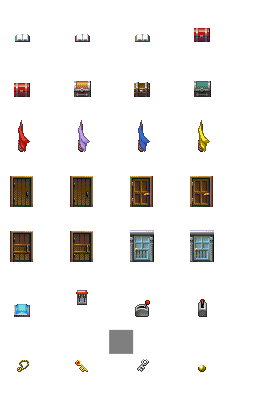
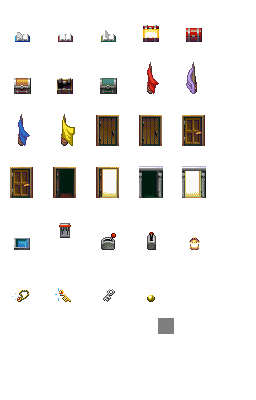
03:object

diff --git a/prj/lib/ObjectEntity.ts b/prj/lib/ObjectEntity.ts
@@ -48,8 +48,8 @@ const object_type_settings:objectTypeSetting[] = [
         type: "door", asset_path: "/assets/image/obj/doors.png",
         collision_x: 0, collision_y: 0, collision_w: 23, collision_h: 31,
         animation_patterns: [
-            { name: "open", frames: [18, 12, 6, 0], loop: false, interval: object_interval_fast },
-            { name: "close", frames: [0, 6, 12, 18], loop: false, interval: object_interval_fast, default: true },
+            { name: "open", frames: [12, 8, 4, 0], loop: false, interval: object_interval_fast },
+            { name: "close", frames: [0, 4, 8, 12], loop: false, interval: object_interval_fast, default: true },
         ],
     }, {
         type: "switch", asset_path: "/assets/image/obj/switches.png",
@@ -92,17 +92,18 @@ const object_settings:object_setting[] = [
     { type: "flag", name: "flag_blue",    animation_offset: 6 },
     { type: "flag", name: "flag_yellow",  animation_offset: 9 },
     { type: "door", name: "door_wood1", animation_offset: 0 },
-    { type: "door", name: "door_wood1_bright", animation_offset: 24 },
+    { type: "door", name: "door_wood1_bright", animation_offset: 16 },
     { type: "door", name: "door_wood2", animation_offset: 1 },
-    { type: "door", name: "door_wood2_bright", animation_offset: 25 },
+    { type: "door", name: "door_wood2_bright", animation_offset: 17 },
     { type: "door", name: "door_wood3", animation_offset: 2 },
-    { type: "door", name: "door_wood3_bright", animation_offset: 26 },
+    { type: "door", name: "door_wood3_bright", animation_offset: 18 },
     { type: "door", name: "door_iron",  animation_offset: 3 },
-    { type: "door", name: "door_iron_bright", animation_offset: 27 },
-    { type: "switch",   name: "switch_p",  animation_offset: 0, collision_x: 4, collision_y: 20, collision_w: 16, collision_h: 11 },
-    { type: "switch",   name: "switch_ud", animation_offset: 3, collision_x: 6, collision_y: 4,  collision_w: 12, collision_h: 17 },
-    { type: "switch",   name: "switch_lr", animation_offset: 6, collision_x: 5, collision_y: 17, collision_w: 14, collision_h: 14 },
-    { type: "switch",   name: "switch_fb", animation_offset: 9, collision_x: 8, collision_y: 15, collision_w: 9, collision_h: 16 },
+    { type: "door", name: "door_iron_bright", animation_offset: 19 },
+    { type: "switch",   name: "switch_p",  animation_offset:  0, collision_x: 4, collision_y: 20, collision_w: 16, collision_h: 11 },
+    { type: "switch",   name: "switch_ud", animation_offset:  3, collision_x: 6, collision_y: 4,  collision_w: 12, collision_h: 17 },
+    { type: "switch",   name: "switch_lr", animation_offset:  6, collision_x: 5, collision_y: 17, collision_w: 14, collision_h: 14 },
+    { type: "switch",   name: "switch_fb", animation_offset:  9, collision_x: 8, collision_y: 15, collision_w: 9, collision_h: 16 },
+    { type: "switch",   name: "lamp",      animation_offset: 12, collision_x: 8, collision_y: 19, collision_w: 9, collision_h: 12 },
     { type: "treasure", name: "treasure_pendant",    animation_offset: 0, collision_x: 7, collision_y: 20,  collision_w: 12, collision_h: 11 },
     { type: "treasure", name: "treasure_key_heart",  animation_offset: 3, collision_x: 6, collision_y: 20,  collision_w: 12, collision_h: 11 },
     { type: "treasure", name: "treasure_key_silver", animation_offset: 6, collision_x: 7, collision_y: 19,  collision_w: 11, collision_h: 12 },

diff --git a/prj/03.lib_object_object/src/main.ts b/prj/03.lib_object_object/src/main.ts
@@ -13,13 +13,13 @@ function main(param: g.GameMainParameterObject): void {
             "chest_bright","chest_red","chest_gold","chest_wood","chest_bronze",
             "flag_red","flag_magenda","flag_blue","flag_yellow",
             "door_wood1","door_wood1_bright","door_wood2","door_wood2_bright","door_wood3","door_wood3_bright","door_iron","door_iron_bright",
-            "switch_p","switch_ud","switch_lr","switch_fb",
+            "switch_p","switch_ud","switch_lr","switch_fb", "lamp",
             "treasure_pendant","treasure_key_heart","treasure_key_silver","treasure_jewel"
         ];
 		names.forEach((name, index) => {
 			const setting = ObjectEntity.getObjectSetting(name);
-			const x = (index % 4) * 60 + 10;
-			const y = Math.floor(index / 4) * 55 + 10;
+			const x = (index % 5) * 43 + 10;
+			const y = Math.floor(index / 5) * 52 + 10;
 			const param:g.EParameterObject = {
 				scene: g.game.scene(),
 				touchable: true, x: x, y: y,
@@ -39,7 +39,7 @@ function main(param: g.GameMainParameterObject): void {
 
 		const rect = new g.FilledRect({
 			scene: scene, touchable: true,
-			width: 24, height: 24, cssColor: "black", opacity: 0.5,
+			width: 16, height: 16, cssColor: "black", opacity: 0.5,
 			x: 128, y: 340,
 		});
 		scene.append(rect);

diff --git a/README.md b/README.md
@@ -47,7 +47,6 @@ GitHub Pages
 
 ### [NVM](https://github.com/nvm-sh/nvm)
 
-- 
 - `README.md`記載のインストールスクリプトを実行すればインストール完了
 - `nvm use node`で安定版を指定する（時々再実行する必要あるのか？
 
